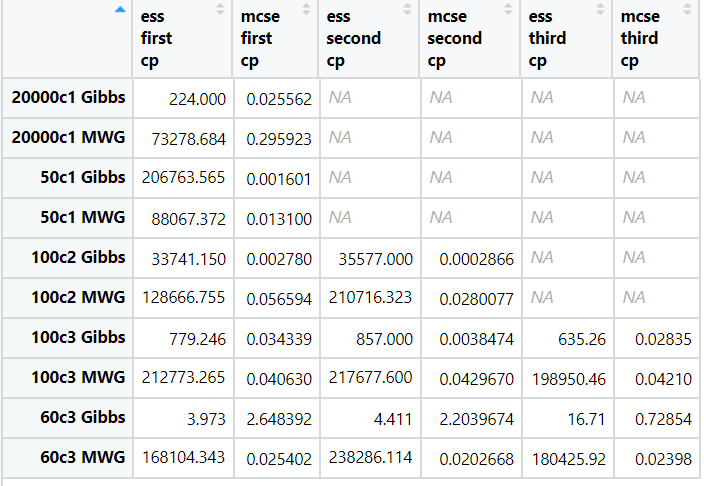
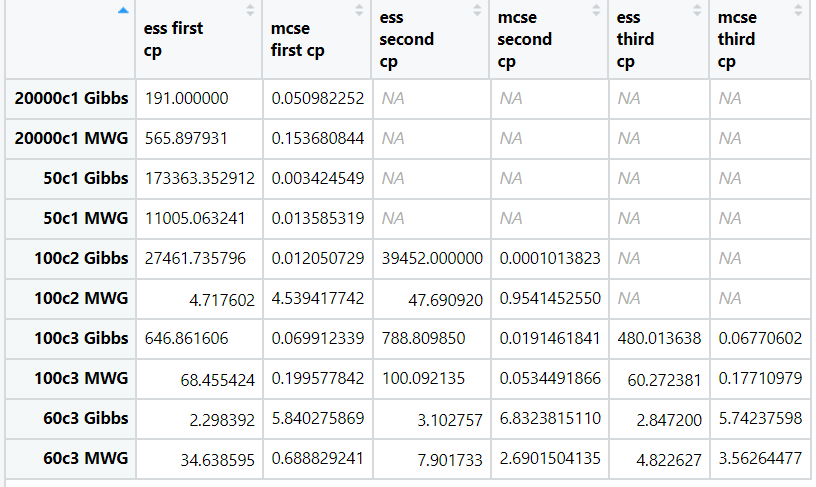
added plots

diff --git a/code/util/helpers.py b/code/util/helpers.py
@@ -85,16 +85,16 @@ def evidences(seq=None, locs_new=None,
 
 @jit(nopython=True)
 def compute_post_mean_dist(vs, seg_sizes, gam, i, mus, empirical_means):
-    # post_var = (1 / ((1 / vs[i]) + (seg_sizes[i] * gam)))
-    # post_sd = np.sqrt(post_var)
-    # post_mean = ( ((mus[i] / vs[i]) + (gam * empirical_means[i] * seg_sizes[i])) /
-    #                 ((1 / vs[i]) + (seg_sizes[i] * gam)) )
+    post_var = (1 / ((1 / vs[i]) + (seg_sizes[i] * gam)))
+    post_sd = np.sqrt(post_var)
+    post_mean = ( ((mus[i] / vs[i]) + (gam * empirical_means[i] * seg_sizes[i])) /
+                    ((1 / vs[i]) + (seg_sizes[i] * gam)) )
 
     # using log trick for numerical stability
-    post_var = np.exp(-np.log( np.exp(-np.log(vs[i])) + np.exp(np.log(seg_sizes[i]) + np.log(gam))))
-    post_sd = np.exp(0.5 * np.log(post_var))
-    post_mean = np.exp(np.log(np.exp(np.log(mus[i]) - np.log(vs[i])) + 
-                np.exp(np.log(gam) + np.log(empirical_means[i]) + np.log(seg_sizes[i]))) + np.log(post_var))
+    # post_var = np.exp(-np.log( np.exp(-np.log(vs[i])) + np.exp(np.log(seg_sizes[i]) + np.log(gam))))
+    # post_sd = np.exp(0.5 * np.log(post_var))
+    # post_mean = np.exp(np.log(np.exp(np.log(mus[i]) - np.log(vs[i])) + 
+    #             np.exp(np.log(gam) + np.log(empirical_means[i]) + np.log(seg_sizes[i]))) + np.log(post_var))
     return post_mean, post_sd
 
 """
@@ -430,27 +430,22 @@ def plot_kl(M, n, n_MCMC, diff_ind, i):
     locs_MWG, times_MWG = get_MWG(M, n, n_MCMC, diff_ind, i)
     locs_Gibbs, times_Gibbs = get_Gibbs(M, n, n_MCMC, diff_ind, i)
 
-    kls_MWG = np.zeros(locs_MWG.shape[0])
-    kls_Gibbs = np.zeros(locs_Gibbs.shape[0])
+    kls_MWG = np.zeros(locs_MWG[::4300].shape[0])
+    kls_Gibbs = np.zeros(locs_Gibbs[::4].shape[0])
+    print(kls_Gibbs.shape[0])
+    # kls_Gibbs = np.zeros(locs_Gibbs.shape[0])
 
-    for i in np.arange(locs_MWG.shape[0]):
-        print(str(i) + "/" + str(locs_MWG.shape[0]))
-        kls_MWG[i] = compute_kl(post, locs_MWG[:i+1], combs)
-    for i in np.arange(locs_Gibbs.shape[0]):
-        print(str(i) + "/" + str(locs_Gibbs.shape[0]))
-        kls_Gibbs[i] = compute_kl(post, locs_Gibbs[:i+1], combs)
-    
-    # for i in np.arange(np.minimum(1000, locs_MWG.shape[0])):
-    #     print(str(i) + "/" + str(locs_MWG.shape[0]))
-    #     kls_MWG[i] = compute_kl(post, locs_MWG[:i+1], combs)
-    # for i in np.arange(np.minimum(1000, locs_Gibbs.shape[0])):
-    #     print(str(i) + "/" + str(locs_Gibbs.shape[0]))
-    #     kls_Gibbs[i] = compute_kl(post, locs_Gibbs[:i+1], combs)
+    for i in np.arange(kls_MWG.shape[0]):
+        print(str(i) + "/" + str(kls_MWG.shape[0]))
+        kls_MWG[i] = compute_kl(post, locs_MWG[:(i+1)*4300], combs)
+    for i in np.arange(kls_Gibbs.shape[0]):
+        print(str(i) + "/" + str(kls_Gibbs.shape[0]))
+        kls_Gibbs[i] = compute_kl(post, locs_Gibbs[:(i+1)*4], combs)
 
-    plt.plot(times_MWG[:np.minimum(1000, locs_MWG.shape[0])+1], kls_MWG[:np.minimum(1000, locs_MWG.shape[0])+1], label="MWG")
-    plt.plot(times_Gibbs[:np.minimum(1000, locs_Gibbs.shape[0])+1], kls_Gibbs[:np.minimum(1000, locs_Gibbs.shape[0])+1], label="Gibbs")
+    plt.plot(times_MWG[::4300], kls_MWG, label="MWG")
+    plt.plot(times_Gibbs[::4], kls_Gibbs, label="Gibbs")
     plt.legend()
-    plt.show()
+    plt.yscale("log")
 
     file_name = "KL" + "_M" + str(M) + "_N" + str(n) + "_NMCMC" + str(n_MCMC) + "_seed" + str(0) + "_diffind" + str(diff_ind)
     path = os.path.normpath(os.path.join(os.path.dirname( __file__ ), '..', '..', 'plots', file_name))

diff --git a/code/tests/KL.py b/code/tests/KL.py
@@ -14,6 +14,8 @@ sys.path.insert(1, os.path.join(sys.path[0], '../data_generation'))
 from gaussian_mean_shift import generate_gaussian_mean_shift
 import matplotlib.pyplot as plt
 
+np.seterr(all='raise')
+
 # params that won't change throughout
 sd = 1
 alpha = 1
@@ -26,6 +28,7 @@ n = np.array([50, 20000, 60, 100, 100])
 n_MCMC = np.array([1, 3, 3, 3, 3])
 diff_ind = np.array([2, 5])
 
-for m in np.arange(M.shape[0]):
-    print(m)
-    helpers.plot_kl(M[m], n[m], n_MCMC[m], diff_ind[0], i)
+# for m in np.arange(M.shape[0]):
+    # print(m)
+m=3
+helpers.plot_kl(M[m], n[m], n_MCMC[m], diff_ind[0], i)
